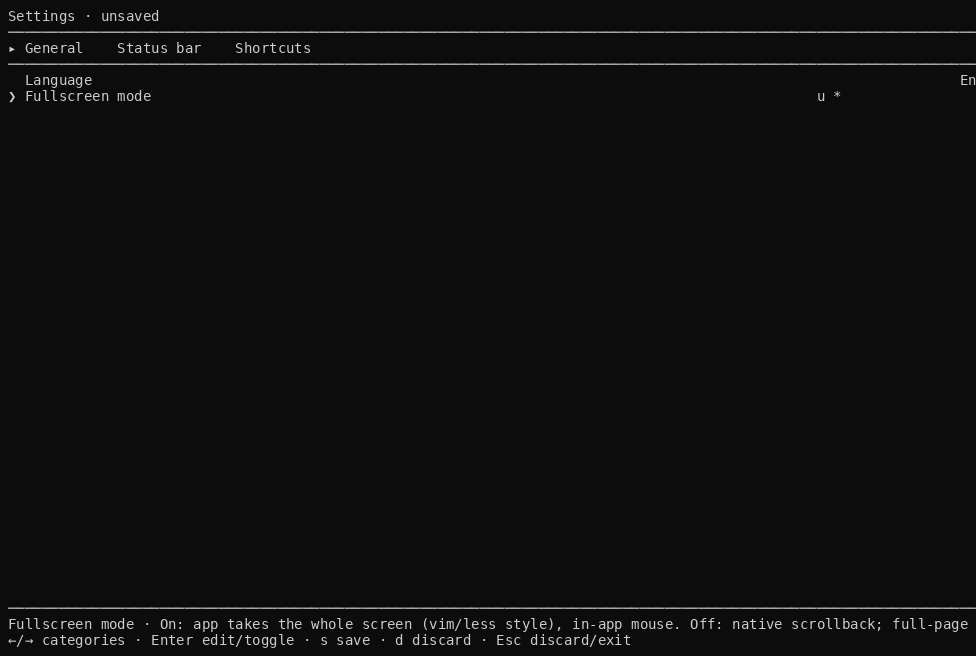
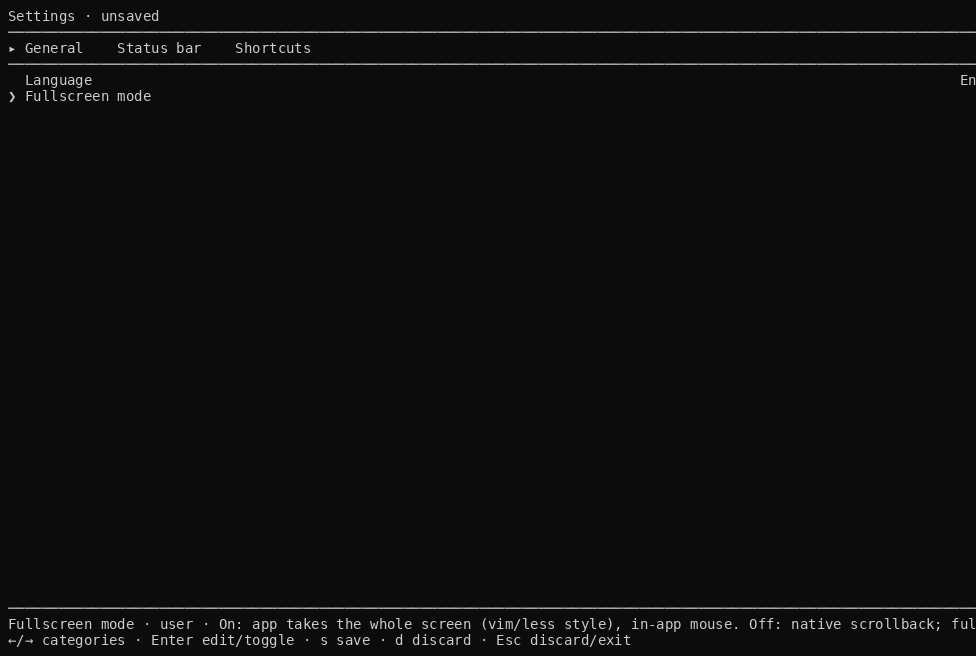
fix(settings): drop mid-row override badge, star-adjacent value
Remove the u/* gutter island from settings rows; reserve one column for
the dirty star immediately before the value (*On /  Off). Move override
source (user) into the footer field hint. Fix history.ts merge conflict
markers that broke CI compile. StatusLine footer fields use truncate-end
so 80-col metrics no longer clip mid-word.

Changed region(s): [[0.1537, 0.9451, 1.0, 0.9756]]

diff --git a/src/screens/StatusLine.tsx b/src/screens/StatusLine.tsx
@@ -92,7 +92,7 @@ function FieldLine({
             flexShrink={1}
             {...(part.id === undefined ? {} : hoverProps(part.id))}
           >
-            <Text wrap="truncate">{part.node}</Text>
+            <Text wrap="truncate-end">{part.node}</Text>
           </Box>
         </React.Fragment>
       ))}
@@ -447,7 +447,7 @@ export function StatusLine({
             </Box>
             {ctxNode !== undefined ? (
               <Box flexShrink={0} height={1} overflow="hidden" {...hoverProps('ctx')}>
-                <Text wrap="truncate">{ctxNode}</Text>
+                <Text wrap="truncate-end">{ctxNode}</Text>
               </Box>
             ) : null}
           </Box>
@@ -533,7 +533,7 @@ function buildHoverDetail(
     const free = Math.max(0, window - contextUsed)
     if (key === 'free') {
       return (
-        <Text wrap="truncate">
+        <Text wrap="truncate-end">
           {dim('free ')}{formatTokens(free)} · {((free / window) * 100).toFixed(1)}% {t('status-detail-of-window')}
         </Text>
       )
@@ -542,7 +542,7 @@ function buildHoverDetail(
     if (segment === undefined) return null
     const tokens = channel.contextSegments[segment.key]
     return (
-      <Text wrap="truncate">
+      <Text wrap="truncate-end">
         {dim(`${segment.labels[1] ?? segment.key} `)}{formatTokens(tokens)} ·{' '}
         {((tokens / window) * 100).toFixed(1)}% {t('status-detail-of-window')}
       </Text>
@@ -560,7 +560,7 @@ function buildHoverDetail(
         segment => `${segment.labels[1] ?? segment.key} ${formatTokens(channel.contextSegments[segment.key])}`,
       ).join(' · ')
       return (
-        <Text wrap="truncate">
+        <Text wrap="truncate-end">
           {((contextUsed / window) * 100).toFixed(1)}% ·{' '}
           {formatTokens(contextUsed)}/{formatTokens(window)} · {dim('free ')}{formatTokens(free)}
           {' · '}{segments}
@@ -571,7 +571,7 @@ function buildHoverDetail(
       const rate = formatCacheHitRate(usage)
       if (usage === undefined || rate === undefined) return null
       return (
-        <Text wrap="truncate">
+        <Text wrap="truncate-end">
           {dim('cache ')}{rate} · {dim('read ')}{formatTokens(usage.cacheRead)} ·{' '}
           {dim('write ')}{formatTokens(usage.cacheWrite)} · {dim('input ')}{formatTokens(usage.input)}
         </Text>
@@ -581,7 +581,7 @@ function buildHoverDetail(
       if (channel.tps === undefined) return null
       const stats = tpsStats(channel.tpsSamples, Date.now())
       return (
-        <Text wrap="truncate">
+        <Text wrap="truncate-end">
           {dim('tps ')}{Math.round(channel.tps)} · {dim('avg60 ')}{stats.avg.toFixed(1)} ·{' '}
           {dim('mean ')}{stats.mean.toFixed(1)} · {dim('p95 ')}{stats.p95.toFixed(1)}
         </Text>
@@ -590,7 +590,7 @@ function buildHoverDetail(
     case 'tokens': {
       const { input, output } = channel.tokens
       return (
-        <Text wrap="truncate">
+        <Text wrap="truncate-end">
           {dim('in ')}{input.toLocaleString()} · {dim('out ')}{output.toLocaleString()} ·{' '}
           {dim('total ')}{(input + output).toLocaleString()}
         </Text>
@@ -601,7 +601,7 @@ function buildHoverDetail(
       if (split === undefined) return null
       const { input, output, cacheRead } = channel.tokens
       return (
-        <Text wrap="truncate">
+        <Text wrap="truncate-end">
           {dim('≈¥')}{split.total.toFixed(2)} · {dim('peak ')}¥{split.peak.toFixed(2)}
           {' · '}{dim('idle ')}¥{split.idle.toFixed(2)} · {dim('in ')}{formatTokens(input)}
           {' · '}{dim('out ')}{formatTokens(output)} · {dim('cache ')}{formatTokens(cacheRead)}
@@ -613,7 +613,7 @@ function buildHoverDetail(
       const goal = channel.goal
       if (goal === undefined) return null
       return (
-        <Text wrap="truncate">
+        <Text wrap="truncate-end">
           {dim('goal ')}{goal.phase} · {dim('r')}{goal.roundsStarted}/{goal.maxGoalRounds} ·{' '}
           {goal.objective}
         </Text>
@@ -621,19 +621,19 @@ function buildHoverDetail(
     }
     case 'sessionId':
       return (
-        <Text wrap="truncate">
+        <Text wrap="truncate-end">
           {dim('# ')}{channel.agentId} · {t('status-detail-session-id')}
         </Text>
       )
     case 'cwd':
       return (
-        <Text wrap="truncate">
+        <Text wrap="truncate-end">
           {dim('cwd ')}{channel.displayCwd}
         </Text>
       )
     case 'title':
       return (
-        <Text wrap="truncate">
+        <Text wrap="truncate-end">
           {dim('title ')}{channel.sessionTitle}
         </Text>
       )

diff --git a/src/screens/Settings.tsx b/src/screens/Settings.tsx
@@ -518,12 +518,18 @@ export function Settings({
     ? `${t('settings-title')} · ${statusText}`
     : t('settings-title')
 
+  const focusedState = focused !== undefined ? focusedForm?.field(focused) : undefined
   const focusedHint = focused !== undefined && focused.hint !== undefined
     ? pick(focused.hint, focused.hintDescriptions)
     : undefined
-  const fieldHintLine = focusedHint !== undefined && focused !== undefined
-    ? `${pick(focused.label, focused.descriptions)} · ${focusedHint}`
-    : ''
+  const fieldHintLine = (() => {
+    if (focused === undefined || focusedHint === undefined) return ''
+    const parts = [pick(focused.label, focused.descriptions)]
+    if (focusedState?.overridden === true) parts.push(t('settings-badge-override'))
+    if (focusedState?.invalid === true) parts.push('!')
+    parts.push(focusedHint)
+    return parts.join(' · ')
+  })()
 
   const navHint = fitHint(
     mode === 'edit'
@@ -536,12 +542,10 @@ export function Settings({
     columns,
   )
 
-  // Fixed badge slots then a value column wide enough for English / On / ctrl+p
-  // at 80 cols. Labels yield first — values never clip into Engl / ctr / user *.
-  const STAGED_SLOT = 2
-  const OVERRIDE_SLOT = 2
-  const INVALID_SLOT = 2
-  const badgeBlock = INVALID_SLOT + OVERRIDE_SLOT + STAGED_SLOT
+  // One reserved dirty-star column immediately before the value; override/source
+  // lives in the footer hint, never as a mid-row gutter badge.
+  const STAGED_SLOT = 1
+  const badgeBlock = STAGED_SLOT
   const valueColWidth = Math.max(12, Math.min(20, Math.floor(columns * 0.26)))
   const labelBudget = Math.max(8, columns - 2 - badgeBlock - valueColWidth - 2)
 
@@ -580,29 +584,24 @@ export function Settings({
             {truncateWidth(label, labelBudget)}
           </Text>
           <Box flexGrow={1} />
-          <Box flexDirection="row" flexShrink={0} height={1} overflow="hidden">
-            <Box width={INVALID_SLOT}>
-              <Text color="error">{state.invalid ? '! ' : '  '}</Text>
-            </Box>
-            <Box width={OVERRIDE_SLOT}>
-              <Text dimColor color={state.overridden ? 'suggestion' : undefined}>
-                {state.overridden ? 'u ' : '  '}
-              </Text>
-            </Box>
-            <Box width={STAGED_SLOT}>
-              <Text color={isStaged ? 'suggestion' : undefined}>
-                {isStaged ? '* ' : '  '}
-              </Text>
-            </Box>
-            <Box width={valueColWidth} flexShrink={0} justifyContent="flex-end">
-              <Text
-                color={isEditing || isFocused ? 'suggestion' : undefined}
-                dimColor={!isFocused && !isEditing && (state.text === '' || field.kind === 'boolean')}
-                wrap="truncate-end"
-              >
-                {value}
-              </Text>
-            </Box>
+          <Box
+            flexDirection="row"
+            flexShrink={0}
+            height={1}
+            overflow="hidden"
+            width={badgeBlock + valueColWidth}
+            justifyContent="flex-end"
+          >
+            <Text color={isStaged ? 'suggestion' : undefined}>
+              {isStaged ? '*' : ' '}
+            </Text>
+            <Text
+              color={isEditing || isFocused ? 'suggestion' : undefined}
+              dimColor={!isFocused && !isEditing && (state.text === '' || field.kind === 'boolean')}
+              wrap="truncate-end"
+            >
+              {value}
+            </Text>
           </Box>
         </Box>
       </ListItem>

diff --git a/scripts/verify-settings-layout.tsx b/scripts/verify-settings-layout.tsx
@@ -160,7 +160,8 @@ async function main(): Promise<void> {
   const dirty = chrome()
   check('dirty title suffix', /Settings · unsaved/.test(dirty.plain))
   check('dirty value shows On', /\bOn\b/.test(dirty.plain))
-  check('no user-star glued value', !/user\s+\*\s*On/.test(dirty.plain))
+  check('dirty star adjacent to value', /\*\s?On/.test(dirty.plain))
+  check('no override letter in row', !/\bu\s+\*/.test(dirty.plain) && !/\s+u\s+\*/.test(dirty.plain))
   check('unsaved not in list well when dirty', !dirty.unsavedInListWell)
   check('footer hint row stable when dirty', before.navY === dirty.navY && dirty.navY === ROWS - 1)
 

diff --git a/docs/evidence/pr3-settings-polish/REVIEW.md b/docs/evidence/pr3-settings-polish/REVIEW.md
@@ -1,16 +1,18 @@
 # PR #3 visual review — Jesse frame order (source of truth)
 
-Review order (80×24) and the defects each frame exposed. Fixes landed in `e088988`; evidence `.txt` is authoritative (PNG is regenerated from the same headless capture).
+Review order (80×24) and the defects each frame exposed. Evidence `.txt` is authoritative (PNG regenerated from the same headless capture).
 
-| # | Review frame | Evidence file | Defects seen | Fix (e088988+) |
+| # | Review frame | Evidence file | Defects seen | Fix |
 | --- | --- | --- | --- | --- |
 | 1 | Settings open | `after_80x24_open` | Value `Engl`; footer hint clipped mid-word | Fixed value col (~20 cols); label truncates first; footer `truncate-end` one line |
 | 2 | Focus move | `after_80x24_focus_move` | Value clip; chrome must stay pinned | Same value col; `titleY=0` / `navY=rows-1` in metrics |
-| 3 | Dirty toggle | `after_80x24_toggle_dirty` | `user *` glued to value; `unsaved` floating in list well | Title `Settings · unsaved`; badge slots `u`/`*`/value separate; status row blank |
+| 3 | Dirty toggle | `after_80x24_toggle_dirty` | `u *` mid-row badge; `unsaved` in list well | Title `Settings · unsaved`; 1-col `*` slot before value (`*On`); override `user` only in footer hint |
 | 4 | Shortcuts tab | `after_80x24_category_shortcuts` | `ctr`; floating `unsaved` | Full `ctrl+p`; dirty suffix stays in title |
 | 5 | Plan picker | `after_80x24_plan_picker` | Descriptions must stay height=1 | Select + ListItem fixed desc row (prior commit) |
 | 6 | Skills loading | `after_80x24_skills_loading` | Sparse OK; chrome height must match loaded | `listSlots` + `PickerHint` reserved (prior commit) |
 | 7 | Skills loaded | `after_80x24_skills_loaded` | Sparse OK; chrome height match | `minHeight=listSlots` on loaded list |
+
+**Also on this branch (outside Settings chrome):** StatusLine footer fields use `truncate-end` so 80-col metrics no longer clip mid-word.
 
 **Not goals:** invent fake General rows; collapse reserved list height.
 
